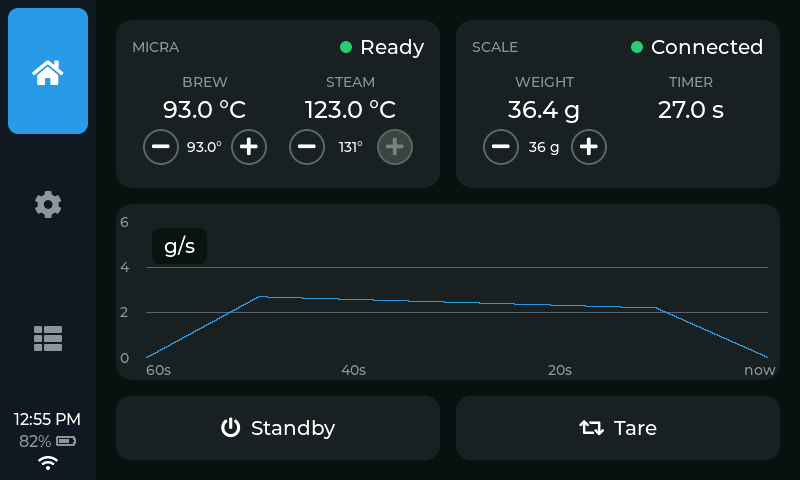
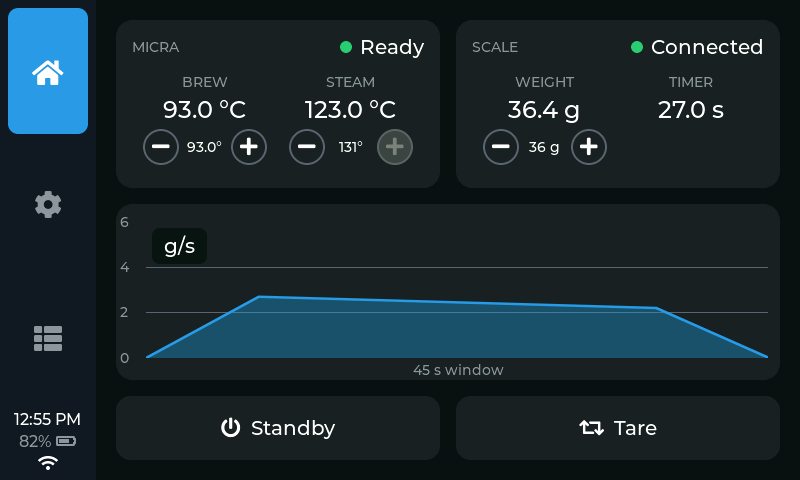
ui: flow graph — oscilloscope mode default, 45s window, 10g weight-mode floor
Scope sweep becomes the default style (saved NVS choices are untouched; the
sim's dedicated render flips to showing the scroll variant instead). Window
shortened 60s -> 45s; weight ('g') mode's default Y full-scale drops
30g -> 10g so a shot fills the plot sooner. home-scale.png refreshed.

Changed region(s): [[0.1875, 0.5938, 0.9688, 0.7812]]

diff --git a/include/core/display_settings.h b/include/core/display_settings.h
@@ -32,9 +32,9 @@ class IDisplaySettings {
   virtual bool drop_negative_flow() const = 0;
   virtual void set_drop_negative_flow(bool on) = 0;
 
-  // Flow graph style: false = scrolling strip chart (default), true = oscilloscope
-  // sweep (a stationary trace a cursor wipes across). Sweep repaints only one column
-  // per step, so it's far cheaper and tears less on the RGB panel.
+  // Flow graph style: true = oscilloscope sweep (a stationary trace a cursor wipes
+  // across; the default), false = scrolling strip chart. Sweep repaints only one
+  // column per step, so it's far cheaper and tears less on the RGB panel.
   virtual bool scope_graph() const = 0;
   virtual void set_scope_graph(bool on) = 0;
 

diff --git a/src/sim/main.cpp b/src/sim/main.cpp
@@ -75,10 +75,10 @@ int main() {
   bool ok = true;
   ok &= r({800, 480}, "renders/home_800x480.png");
   ok &= r({320, 240}, "renders/home_320x240.png");
-  // Oscilloscope-style graph: age ticks hidden, single window caption instead.
-  disp.set_scope_graph(true);
-  ok &= r({800, 480}, "renders/home_scope_800x480.png");
+  // Scrolling strip-chart graph (the non-default style; scope is the default).
   disp.set_scope_graph(false);
+  ok &= r({800, 480}, "renders/home_scroll_800x480.png");
+  disp.set_scope_graph(true);
   // No-scale Home (classic layout) — toggle the fake to "no scale saved".
   scale_provisioner.set_saved(false);
   ok &= r({320, 240}, "renders/home_noscale_320x240.png");

diff --git a/src/ui/home_tab.cpp b/src/ui/home_tab.cpp
@@ -19,7 +19,7 @@ void format_now(char* out, size_t n, float c, bool f) {
 // Flow strip chart. The plot scrolls right->left by wall-clock time (see
 // flow_graph_tick) over kFlowWindowS seconds. The Y axis auto-ranges (per-mode
 // default/floor, grows to the window peak, shrinks back with hysteresis).
-constexpr int kFlowWindowS = 60;       // seconds spanned by the full plot width
+constexpr int kFlowWindowS = 45;       // seconds spanned by the full plot width
 // Pixels scrolled per re-blit. The whole-plot copy is the cost, so scrolling N px
 // at 1/N the cadence keeps the same average speed for ~1/N the CPU (chunkier
 // motion). 1 = smoothest/most expensive; bump to trade smoothness for CPU.
@@ -35,7 +35,7 @@ constexpr int kFlowScopeGapPx = 4;
 // Modes: 0 = flow rate (g/s), 1 = weight (g). Each has a unit + a default axis
 // full-scale, which is also the floor the axis shrinks back to.
 const char* flow_unit(int mode) { return mode == 1 ? "g" : "g/s"; }
-float flow_default_max(int mode) { return mode == 1 ? 30.0f : 6.0f; }
+float flow_default_max(int mode) { return mode == 1 ? 10.0f : 6.0f; }
 
 // Smallest "nice" axis >= v for the mode (even / multiple of 10 so the labels
 // 0, max/2, max stay clean), floored at the mode default.

diff --git a/include/platform_esp32/config.h b/include/platform_esp32/config.h
@@ -45,7 +45,7 @@ class Config {
   bool drop_negative_flow() const;  // clamp negative g/s on the flow graph (default true)
   void set_drop_negative_flow(bool on);
 
-  bool scope_graph() const;  // oscilloscope-style flow graph (default false = scroll)
+  bool scope_graph() const;  // oscilloscope-style flow graph (default true; false = scroll)
   void set_scope_graph(bool on);
 
   bool perf_overlay() const;  // LVGL FPS/CPU overlay (default false)

diff --git a/include/platform_host/fake_display_settings.h b/include/platform_host/fake_display_settings.h
@@ -27,7 +27,7 @@ class FakeDisplaySettings : public core::IDisplaySettings {
   int theme_ = 0;
   bool fahrenheit_ = false;
   bool drop_negative_flow_ = true;
-  bool scope_graph_ = false;
+  bool scope_graph_ = true;  // matches the device default
   bool perf_overlay_ = false;
 };
 

diff --git a/src/platform_esp32/config.cpp b/src/platform_esp32/config.cpp
@@ -196,7 +196,7 @@ void Config::set_drop_negative_flow(bool on) {
 bool Config::scope_graph() const {
   Preferences p;
   if (!p.begin(kNamespace, /*readOnly=*/true)) return false;
-  const bool v = p.isKey(kScopeGraphKey) ? p.getBool(kScopeGraphKey, false) : false;
+  const bool v = p.isKey(kScopeGraphKey) ? p.getBool(kScopeGraphKey, true) : true;
   p.end();
   return v;
 }